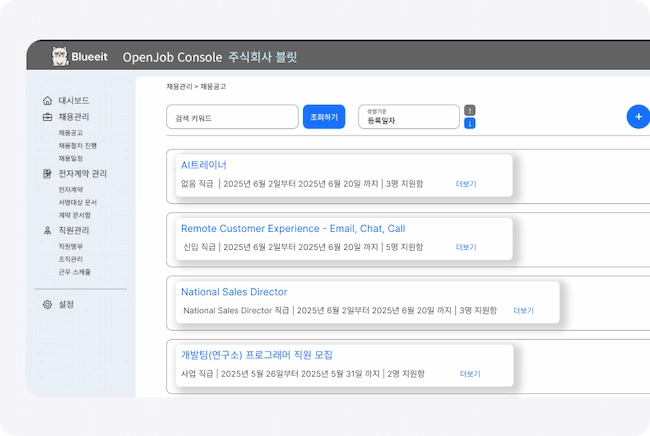
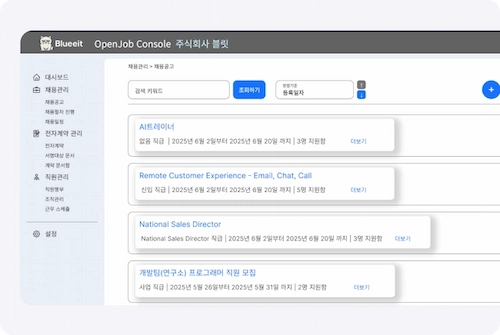
260515 이미지 원본 사이즈 수정

diff --git a/index.html b/index.html
@@ -312,7 +312,7 @@
               <img
                 src="./images/common/img-ai-resume04.webp"
                 alt="ai resume"
-                width="890"
+                width="750"
                 height="255"
                 class="section-img ai-template-img"
               />
